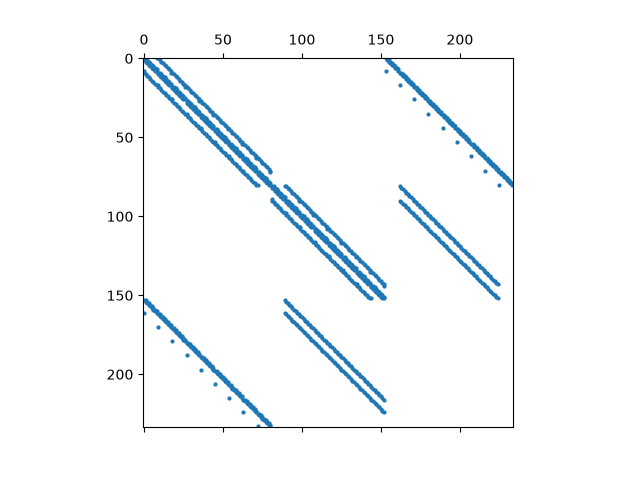
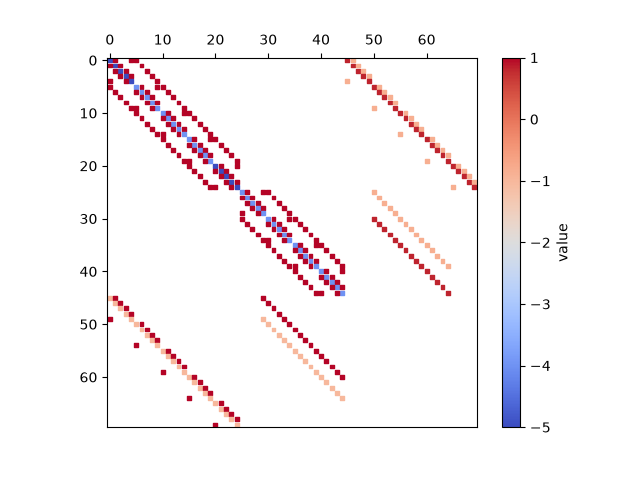
made a matrix visualizer

diff --git a/Scripts/stokes_solver_v2.py b/Scripts/stokes_solver_v2.py
@@ -54,20 +54,21 @@ def sysAssembly(mu, Nc, Nr, dx, x, y, f, g, U_top, V_top, U_bot, V_bot, verbose=
     D_x = buildDeriv(Nr, Nc, dir = 'x') #buildDeriv(Nx-1, Ny-1, direction = 'x')
     D_y = buildDeriv(Nr,Nc-1, dir = 'y') #buildDeriv(Nx-1, Ny-2, direction = 'y')
 
-    # print(f"Lu: {L_u.shape}")
-    # print(f"Lv: {L_v.shape}")
-    # print(f"Gx: {G_x.shape}")
-    # print(f"Gy: {G_y.shape}")
-    # print(f"Dx: {D_x.shape}")
-    # print(f"Dy: {D_y.shape}")
-
     A_grid = [[L_u, None, G_x],
             [None, L_v, G_y],
+            #[G_x.T, G_y.T, None]]
             [D_x, D_y, None]]
 
     A = sp.block_array(A_grid, format = 'coo')
 
-    plt.spy(A, markersize=4, marker='.')
+    #plt.spy(A, markersize=4, marker='.')
+    fig, ax = plt.subplots()
+    sc = ax.scatter(A.col, A.row, c=A.data, s=8, cmap="coolwarm", marker="s")
+    ax.set_xlim(-0.5, A.shape[1] - 0.5)
+    ax.set_ylim(A.shape[0] - 0.5, -0.5)      # row 0 at the top, like spy
+    ax.set_aspect("equal")
+    ax.xaxis.tick_top()                       # optional: matches spy's axis placement
+    fig.colorbar(sc, ax=ax, label="value")
     plt.savefig("Images\\Spy.png")
 
     # Build out b using a meshgrid
@@ -88,12 +89,6 @@ def sysAssembly(mu, Nc, Nr, dx, x, y, f, g, U_top, V_top, U_bot, V_bot, verbose=
     G[-1,:] -= V_bot
     b = np.hstack((F.flatten(),G.flatten(),O))
 
-    # print(dx)
-    # print(F.shape)
-    # print(G.shape)
-    # print(O.shape)
-    # print(b.shape)
-    # print(A.shape)
         
     return A, b
 
@@ -116,10 +111,6 @@ def StokesSolver(mu, Nx, Ny, dx, x, y, f, g, U_y_0, V_y_0, U_y_L, V_y_L, verbose
     U = x[0:Nc*Nr]
     V = x[Nc*Nr:(Nc*Nr+(Nr-1)*(Nc))]
     P = x[(Nc*Nr+(Nr-1)*(Nc)):]
-    # print(x.shape)
-    # print(U.shape)
-    # print(V.shape)
-    # print(P.shape)
 
     P = P - np.mean(P)
 
@@ -128,9 +119,6 @@ def StokesSolver(mu, Nx, Ny, dx, x, y, f, g, U_y_0, V_y_0, U_y_L, V_y_L, verbose
     V = V.reshape((Nr-1, Nc))
     P = P.reshape(Nr,Nc)
 
-    # visualize the model
-    #plt.spy(A)
-    #plt.show()
     return U, V, P
 
 def grid_eval(u, v, p, Nx, Ny, dx, x, y):
@@ -156,7 +144,7 @@ def grid_eval(u, v, p, Nx, Ny, dx, x, y):
 def main():
     # Control Panel
     mu = 1.0 # Viscousity
-    Nx = 10 # number of nodes in the type 1 grid in each direction
+    Nx = 6 # number of nodes in the type 1 grid in each direction
     x_0 = 1.0 # x left boundary
     x_L = 6.0 # x right boundary
     tp = 2*np.pi
@@ -197,13 +185,13 @@ def main():
     v_err = np.abs(V_approx - V_exact)/np.abs(V_exact)
     p_err = np.abs(P_approx - P_exact)/np.abs(P_exact)
 
-    vmin = min(u_err.min(), v_err.min(), p_err.min())
-    vmax = max(u_err.max(), v_err.max(), p_err.max())
+    # vmin = min(u_err.min(), v_err.min(), p_err.min())
+    # vmax = max(u_err.max(), v_err.max(), p_err.max())
 
     fig1, ax1 = plt.subplots(nrows=1, ncols=3, constrained_layout=True)
-    im0 = ax1[0].pcolormesh(U_bundle[0], U_bundle[1], u_err, cmap=colormap, vmin=vmin, vmax=vmax)
-    im1 = ax1[1].pcolormesh(V_bundle[0], V_bundle[1], v_err, cmap=colormap, vmin=vmin, vmax=vmax)
-    im2 = ax1[1].pcolormesh(P_bundle[0], P_bundle[1], p_err, cmap=colormap, vmin=vmin, vmax=vmax)
+    im0 = ax1[0].pcolormesh(U_bundle[0], U_bundle[1], U_approx, cmap=colormap)#, vmin=vmin, vmax=vmax)
+    im1 = ax1[1].pcolormesh(V_bundle[0], V_bundle[1], V_approx, cmap=colormap)#, vmin=vmin, vmax=vmax)
+    im2 = ax1[1].pcolormesh(P_bundle[0], P_bundle[1], P_approx, cmap=colormap)#, vmin=vmin, vmax=vmax)
     for ax in ax1:
         ax.set_aspect('equal')
         ax.set_xlabel("x")
